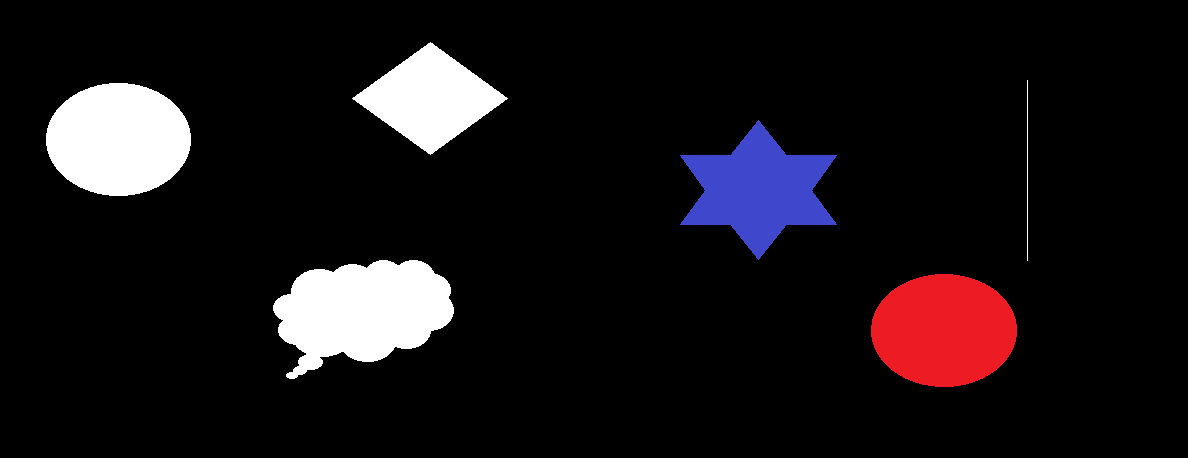
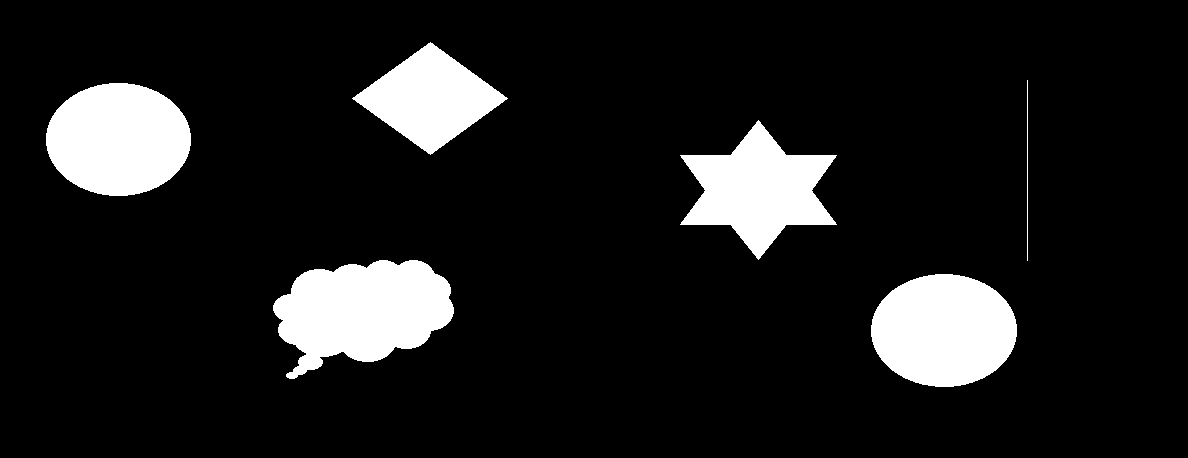
Imagem de saida com tons de cinza

Changed region(s): [[0.7163, 0.5808, 0.8721, 0.8559], [0.5606, 0.2751, 0.7163, 0.5808]]

diff --git a/main.py b/main.py
@@ -18,7 +18,7 @@ def is_fundo(ponto, fundo):
 
 
 def get_vizinho(coordenada, linha, coluna):
-    return [coordenada[0] + linha, coordenada[1]+coluna]
+    return (coordenada[0] + linha, coordenada[1]+coluna)
 
 
 def get_vizinhos_4(coordenada):
@@ -51,7 +51,8 @@ def outside_image(coordenada, altura, largura):
 def pixel_inutil(ponto_img1, ponto_img2, fundo):
     return is_fundo(ponto_img1, fundo) or not is_fundo(ponto_img2, fundo)
 
-def busca_largura(coordenada, img, img2, vizinhanca, fundo):
+
+def busca_largura(coordenada, img, img2, vizinhanca, fundo, cor):
     fila = queue.Queue()
     fila.put(coordenada)
     while not fila.empty():
@@ -66,7 +67,8 @@ def busca_largura(coordenada, img, img2, vizinhanca, fundo):
         for vizinho in vizinhos:
             fila.put(vizinho)
 
-        img2[atual[0]][atual[1]] = img[atual[0]][atual[1]]
+        #img2[atual] = img[atual]
+        img2[atual] = cor
 
     return img2
 
@@ -81,11 +83,11 @@ def main(file='ex1.png', vizinhanca=4, fundo=0):
         for coluna in range(img.shape[1]):
             if img[linha][coluna][0] > 0 :
                 if (not is_fundo(img[linha][coluna], fundo)) and (is_fundo(img2[linha][coluna], fundo)):
-                    img2 = busca_largura([linha, coluna], img, img2, vizinhanca, fundo)
                     regiao = regiao + 1
-                    #show_imagem(img2, "regioes: " + str(regiao))
+                    img2 = busca_largura((linha, coluna), img, img2, vizinhanca, fundo, regiao)
+                    show_imagem(img2, "regioes: " + str(regiao))
 
     show_imagem(img2, "Total de " + str(regiao) + " regioes")
     return regiao
 
-main(file='ex_diagonal.png', vizinhanca=4)
+#main(file='ex2.png', vizinhanca=4)
